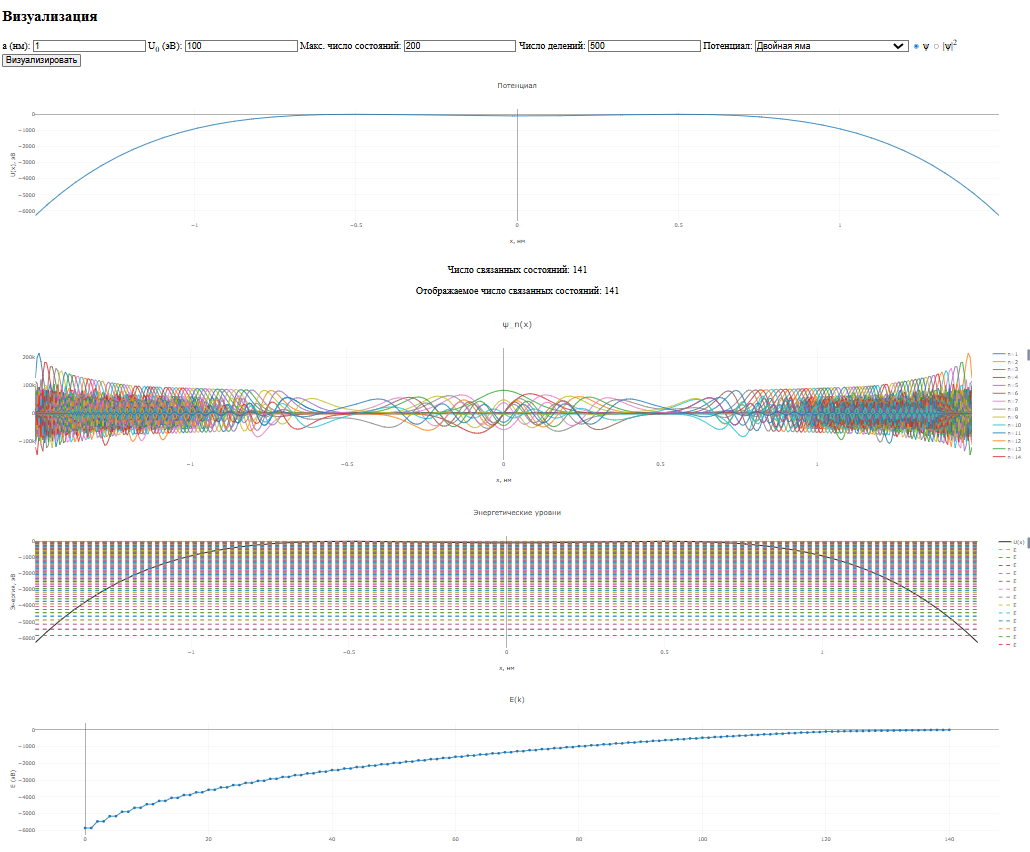
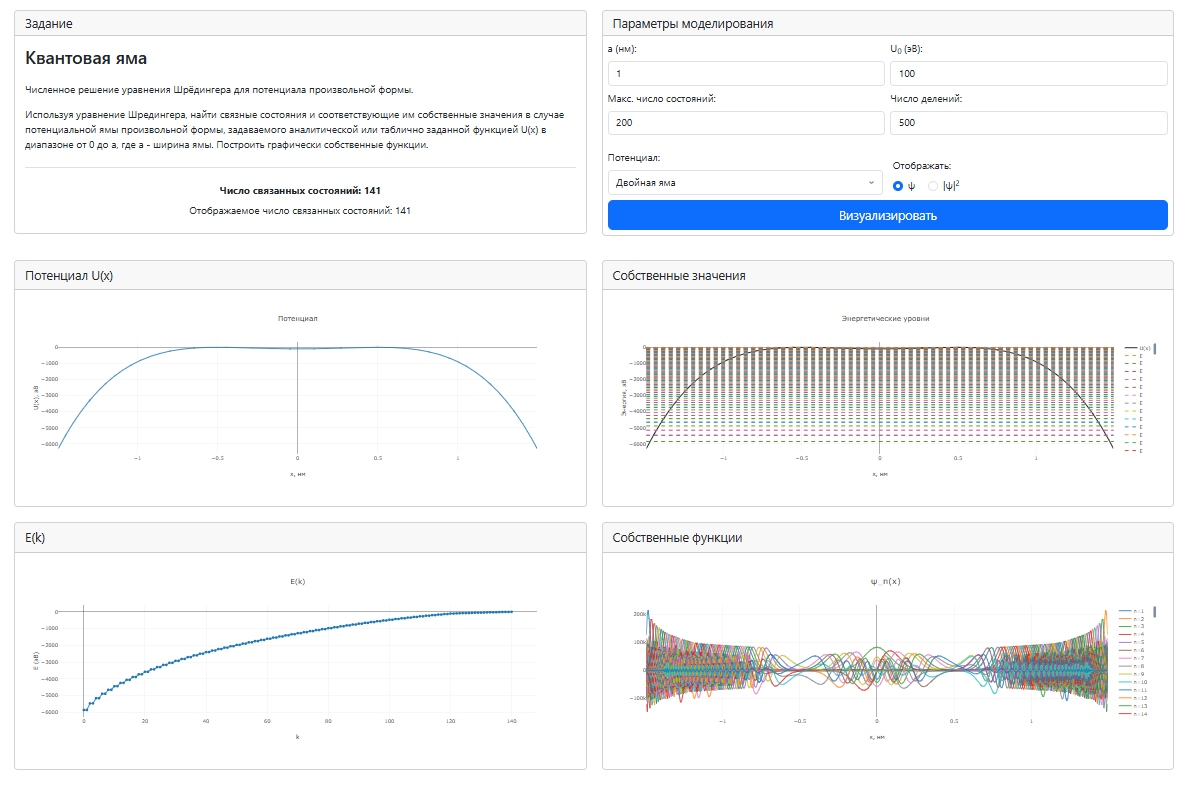
feat: improve ui using bootstrap

diff --git a/templates/index.html b/templates/index.html
@@ -2,56 +2,123 @@
 <html>
 <head>
   <meta charset="utf-8">
+  <meta name="viewport" content="width=device-width, initial-scale=1">
   <title>Квантовая яма</title>
+  <link href="https://cdn.jsdelivr.net/npm/bootstrap@5.3.0/dist/css/bootstrap.min.css" rel="stylesheet">
   <script src="https://cdn.plot.ly/plotly-latest.min.js"></script>
+  <style>
+    body { padding-top: 20px; padding-bottom: 40px; }
+    .card { margin-bottom: 20px; }
+    #num_states p { margin-bottom: 0.5rem; }
+  </style>
 </head>
 <body>
-<header>
-  <h2>Задание</h2>
-  <p> Используя уравнение Шредингера, найти связные состояния и соответствующие им собственные значения в случае потенциальной ямы произвольной формы, задаваемого аналитической или таблично заданной функцией U(x) в диапазоне от 0  до a, где a - ширина ямы. Построить графически собственные функции</p>
-  <h2>Визуализация</h2>
-</header>
-  <main>
-    <label>a (нм):</label>
-    <input id="a" value="1" step="0.1" type="number">
-
-    <label>U<sub>0</sub> (эВ):</label>
-    <input id="U0" value="10" step="10" type="number">
-
-    <label>Макс. число состояний:</label>
-    <input id="kmax" type="number" value="5" min="1" step="1">
-
-    <label>Число делений:</label>
-    <input id="N" type="number" value="200" min="1" step="100">
-
-
-    <label>Потенциал:</label>
-    <select id="kind">
-      <option value="parabolic">Параболический</option>
-      <option value="square">Прямоугольный</option>
-      <option value="double">Двойная яма</option>
-      <option value="arbitrary">Произвольная (задается в коде)</option>
-    </select>
-
-    <label>
-    <input type="radio" name="mode" value="psi" checked> &psi;
-    </label>
-    <label>
-    <input type="radio" name="mode" value="prob"> |&psi;|<sup>2</sup>
-    </label>
-
-    <button onclick="run()">Визуализировать</button>
-
-    <div id="Uplot"></div>
-    <div id="num_states">
-      <p id="nvalue" align="center"></p>
-      <p id="kvalue" align="center"></p>
+<div class="container-fluid px-5 py-4">
+  <div class="row">
+    <div class="col-md-6 mb-4">
+      <div class="card">
+        <div class="card-header fs-5 py-1">Задание</div>
+        <div class="card-body p-3">
+          <h1 class="fs-3 mb-4">Квантовая яма</h1>
+          <p class="mb-3">Численное решение уравнения Шрёдингера для потенциала произвольной формы.</p>
+          <p class="mb-4">Используя уравнение Шредингера, найти связные состояния и соответствующие им собственные значения в случае потенциальной ямы произвольной формы, задаваемого аналитической или таблично заданной функцией U(x) в диапазоне от 0 до a, где a - ширина ямы. Построить графически собственные функции.</p>
+        <div id="num_states" class="border-top pt-3 mt-3">
+          <p id="nvalue" class="text-center fw-bold mb-2 mt-2"></p>
+          <p id="kvalue" class="text-center mb-2"></p>
+        </div>
+        </div>
+      </div>
     </div>
-    <div id="psiplot"></div>
-    <div id="Eplot"></div>
-    <div id="Ekplot"></div>
+  <div class="col-md-6 mb-4">
+    <div class="card">
+      <div class="card-header fs-5 py-1">Параметры моделирования</div>
+      <div class="card-body p-2">
+        <div class="row g-2">
+          <div class="col-sm-6">
+            <label for="a" class="form-label">a (нм):</label>
+            <input id="a" class="form-control" value="1" step="0.1" type="number">
+          </div>
+          <div class="col-sm-6">
+            <label for="U0" class="form-label">U<sub>0</sub> (эВ):</label>
+            <input id="U0" class="form-control" value="10" step="10" type="number">
+          </div>
+          <div class="col-sm-6">
+            <label for="kmax" class="form-label">Макс. число состояний:</label>
+            <input id="kmax" class="form-control" type="number" value="5" min="1" step="1">
+          </div>
+          <div class="col-sm-6">
+            <label for="N" class="form-label">Число делений:</label>
+            <input id="N" class="form-control" type="number" value="200" min="1" step="100">
+          </div>
+        </div>
+        <div class="row g-3 mt-2 align-items-end">
+          <div class="col-md-6">
+            <label for="kind" class="form-label">Потенциал:</label>
+            <select id="kind" class="form-select">
+              <option value="parabolic">Параболический</option>
+              <option value="square">Прямоугольный</option>
+              <option value="double">Двойная яма</option>
+              <option value="arbitrary">Произвольная (задается в коде)</option>
+            </select>
+          </div>
+          <div class="col-sm-6">
+            <div class="form-label">Отображать:</div>
+            <div class="form-check form-check-inline">
+              <input class="form-check-input" type="radio" name="mode" value="psi" id="modePsi" checked>
+              <label class="form-check-label" for="modePsi">ψ</label>
+            </div>
+            <div class="form-check form-check-inline">
+              <input class="form-check-input" type="radio" name="mode" value="prob" id="modeProb">
+              <label class="form-check-label" for="modeProb">|ψ|<sup>2</sup></label>
+            </div>
+          </div>
+          <div class="mt-2">
+            <button onclick="run()" class="btn btn-primary btn-lg w-100">Визуализировать</button>
+          </div>
+        </div>
+      </div>
+    </div>
+  </div>
 
-    <script src="{{ url_for('static', filename='js/script.js') }}"></script>
-  </main>
+    <div class="col-md-6 mb-4">
+      <div class="card h-100">
+        <div class="card-header fs-5">Потенциал U(x)</div>
+        <div class="card-body graph-container">
+          <div id="Uplot"></div>
+        </div>
+      </div>
+    </div>
+    <div class="col-md-6 mb-4">
+      <div class="card h-100">
+        <div class="card-header fs-5">Собственные значения</div>
+        <div class="card-body graph-container">
+          <div id="Eplot"></div>
+        </div>
+      </div>
+    </div>
+
+    <div class="col-md-6 mb-4">
+      <div class="card h-100">
+        <div class="card-header fs-5">E(k)</div>
+        <div class="card-body graph-container">
+          <div id="Ekplot"></div>
+        </div>
+      </div>
+    </div>
+
+    <div class="col-md-6 mb-4">
+      <div class="card h-100">
+        <div class="card-header fs-5">Собственные функции</div>
+        <div class="card-body graph-container">
+          <div id="psiplot"></div>
+        </div>
+      </div>
+    </div>
+  </div>
+</div>
+
+<script src="https://cdn.jsdelivr.net/npm/bootstrap@5.3.0/dist/js/bootstrap.bundle.min.js"></script>
+<script src="{{ url_for('static', filename='js/script.js') }}"></script>
+
 </body>
 </html>

diff --git a/README.md b/README.md
@@ -1,5 +1,13 @@
-### Задание
-Используя уравнение Шредингера, найти связные состояния и соответствующие им собственные значения в случае потенциальной ямы произвольной формы, задаваемого аналитической или таблично заданной функцией U(x) в диапазоне от 0  до a, где a - ширина ямы. Построить графически собственные функции.
+## Описание
+Веб-приложение для численного решения стационарного уравнения Шрёдингера и визуализации связанных состояний частицы в потенциальной яме произвольной формы.
 
-### Визуализация решения
+Приложение:
+- позволяет задавать параметры потенциальной ямы (ширина, глубина, форма);
+- численно находит собственные значения и собственные функции;
+- строит графики волновых функций и спектра частицы в яме, а также отображает потенциальную яму и зависимость энергии от номера уровня.
+
+Реализовано на Python/Flask с визуализацией через Plotly.
+
+## Интерфейс 
+
 ![](img/illustration.png)